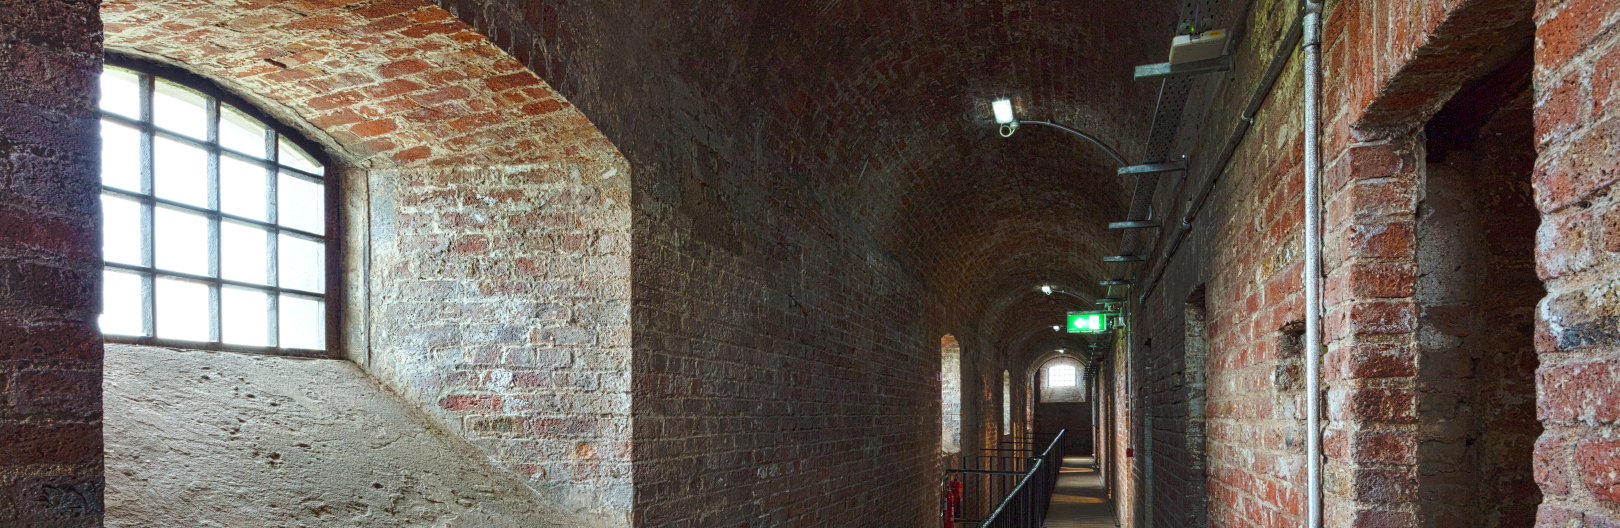
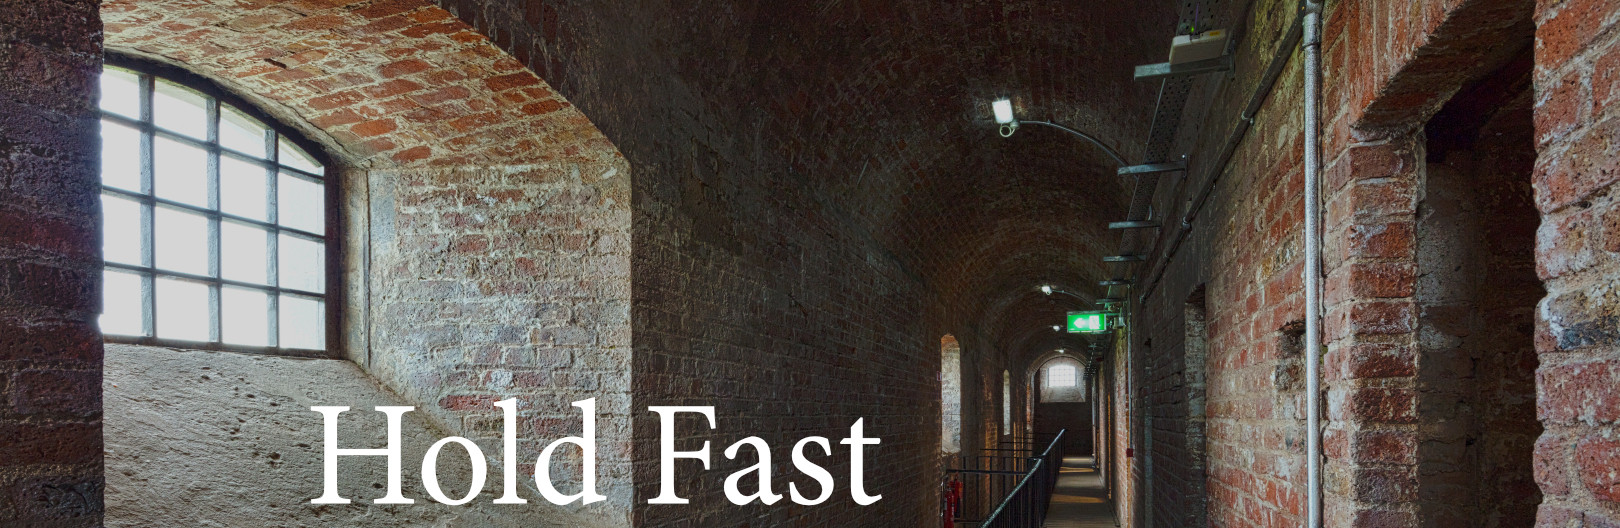
Dorota's changes

diff --git a/HoldFast/index.html b/HoldFast/index.html
@@ -21,7 +21,7 @@
     </head>
 
 <body style="overflow-x: hidden;">
-    <img src="../img/holdFastBanner.png" style="width: 100%; height: auto">
+    <img src="../img/holdFastBanner_chf.jpg" style="width: 100%; height: auto">
     <div class="container" style="text-align: left; width: 80%">
         <p>
         
@@ -37,12 +37,14 @@
         <!-- Sean Hanrahan -->
         <div class="container mx-0 mx-sm-3">
             <div class="row">
-                <div class="col-md-4" style="text-align: center">
+                <div class="col-md-4" style="text-align: left">
                   <img src="../img/SHanrahan-profile-photo.jpeg" style="width: 80%">
                 </div>
                 <div class="col-md-8">
                     <p><span style="font-size: 2em">Seán Hanrahan</span></p>
-                    Seán Hanrahan is a multidisciplinary artist based in Cork city, working in print, photography, installation & collaborative practice. My studio practice is at Backwater Artists Studio where I am also a board member. I have been a member of Cork Printmakers for 15 years, where I have worked on several projects & exhibited internationally. Recent projects/exhibition – Artist in residence at IMMA (Irish Museum of Modern Art) where I produced a site-specific flag Project Memory Anthem for IMMA’s A Radical Plot residency program August-October 2021. Facebook Artist in Residence (AIR) program, where I produced a large-scale mural for their Cork Oculus laboratory offices. In 2018 I co-curated Aрка/Arch exhibition of Belarusian graphic work with Belarusian Artist Roman Sustov, Studio 12 Backwater Artists, Cork IRE. HALFTONE 16, 17, 18, 20, 21 The Library Project, Dublin IRE. The 188th RHA open submission exhibition, Dublin IRE. Solo exhibition Night Frightens the Day/Калі ноч палохае дзень VCCA (Centre for Contemporary and Modern Art) Minsk, Belarus. Over the Sun, (Kazimir Malevich’s influence on western Artists), initiated and curated by Seán Hanrahan. Participating artists Seán Hanrahan IRE Dominic Fee IRE and Josh Dannin USA, Vitebsk Gallery of Modern Art (V.C.C.A.) Vitebsk, Belarus.
+                    Seán Hanrahan is a multidisciplinary artist based in Cork city, working in print, photography, installation & collaborative practice. My studio practice is at Backwater Artists Studio where I am also a board member. I have been a member of Cork Printmakers for 15 years, where I have worked on several projects & exhibited internationally. 
+                    <br>
+                    Recent projects/exhibition – Artist in residence at IMMA (Irish Museum of Modern Art) where I produced a site-specific flag Project Memory Anthem for IMMA’s A Radical Plot residency program August-October 2021. Facebook Artist in Residence (AIR) program, where I produced a large-scale mural for their Cork Oculus laboratory offices. In 2018 I co-curated Aрка/Arch exhibition of Belarusian graphic work with Belarusian Artist Roman Sustov, Studio 12 Backwater Artists, Cork IRE. HALFTONE 16, 17, 18, 20, 21 The Library Project, Dublin IRE. The 188th RHA open submission exhibition, Dublin IRE. Solo exhibition Night Frightens the Day/Калі ноч палохае дзень VCCA (Centre for Contemporary and Modern Art) Minsk, Belarus. Over the Sun, (Kazimir Malevich’s influence on western Artists), initiated and curated by Seán Hanrahan. Participating artists Seán Hanrahan IRE Dominic Fee IRE and Josh Dannin USA, Vitebsk Gallery of Modern Art (V.C.C.A.) Vitebsk, Belarus.
                     <br><br>
                     <p><a href="https://xhanrahan.com/" target="_blank">xhanrahan.com &nbsp;&nbsp;&nbsp;<i class="fa-solid fa-arrow-up-right-from-square"></i></a></p>
                 </div>
